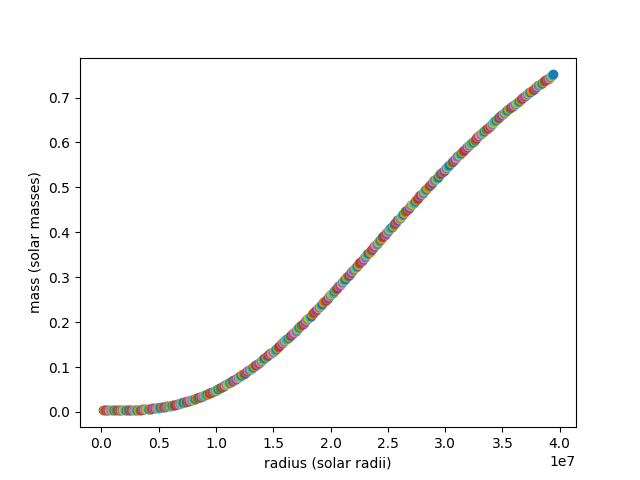
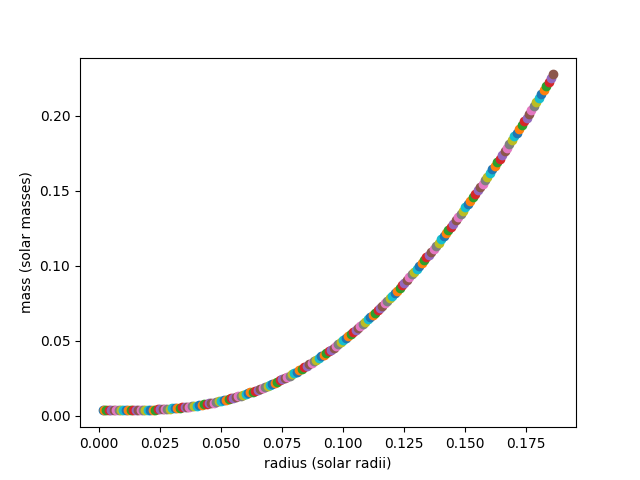
saved a profile

diff --git a/data/data_reader.py b/data/data_reader.py
@@ -8,7 +8,7 @@ if __name__ == "__main__":
     with open('data/data.csv', mode='r') as file:
         reader = csv.DictReader(file)
         for row in reader:
-            plt.plot(float(row['radius'])/(6.897), float(row['mass'])/(1.989e30), 'o')
+            plt.plot(float(row['xi'])/(6.897), float(row['mass'])/(1.989e30), 'o')
             plt.xlabel('radius (solar radii)')
             plt.ylabel('mass (solar masses)')
             plt.savefig('data/profiles/mass_radius.png')
